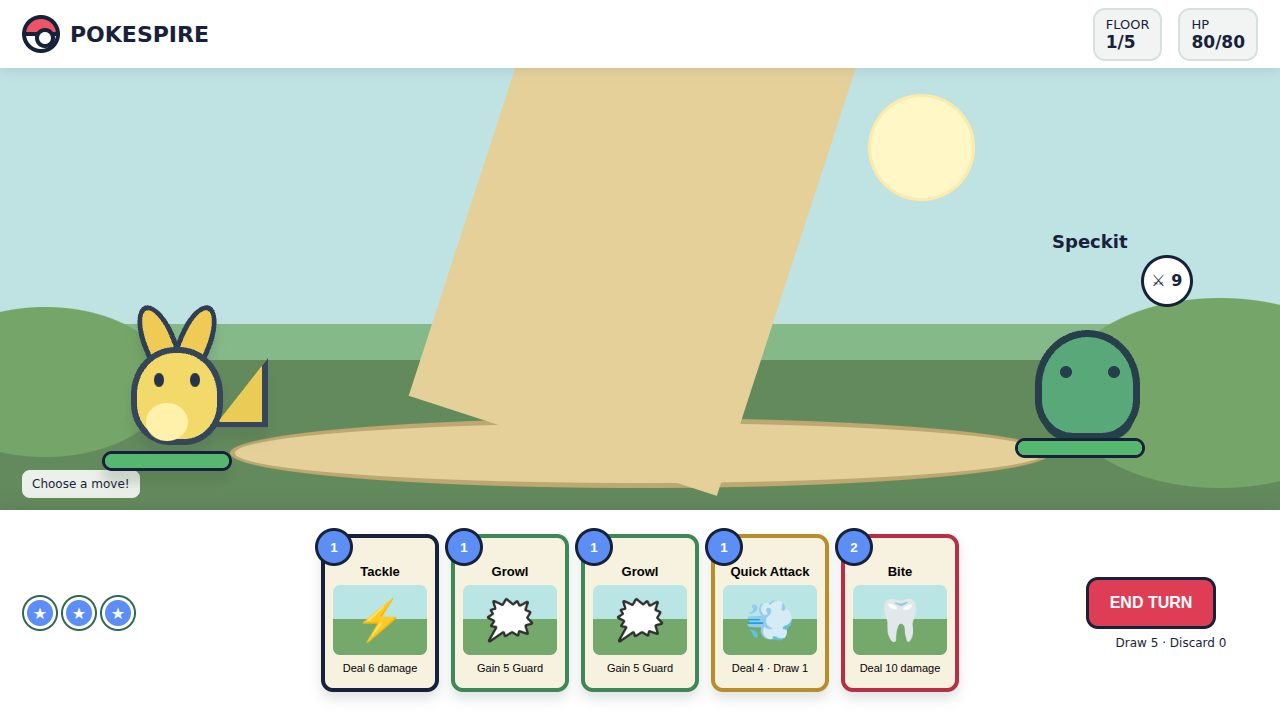
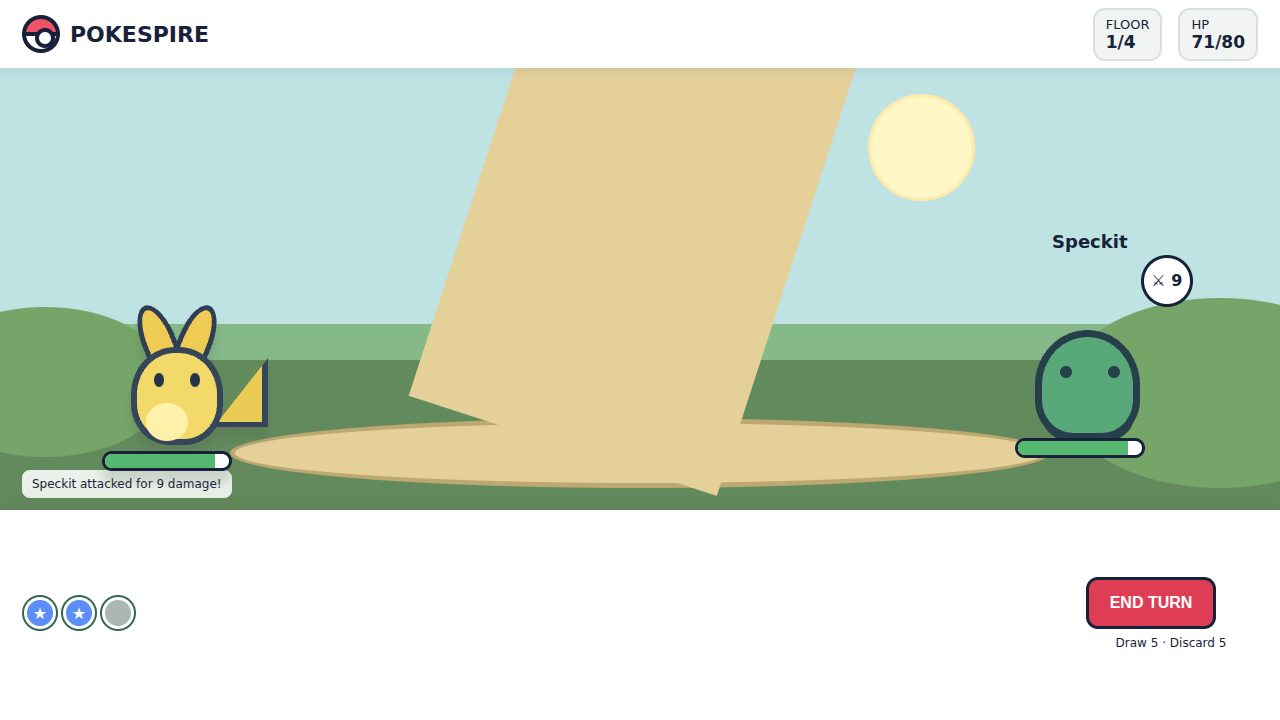
Publish static build for issue #1
Run: 44741429560
Attempt: 1
Generation: 3
Source: f04a97394c0f30c4d3bd9ed31115f5de08431f91

diff --git a/game.js b/game.js
@@ -20,10 +20,10 @@ function bind(){document.queryAll='';document.querySelectorAll('[data-card]').fo
 function toast(t){let el=document.createElement('div');el.className='toast';el.textContent=t;app.append(el);setTimeout(()=>el.remove(),1300)}
 function playCard(i){let c=state.player.hand[i];if(!c)return;if(c.cost>state.player.energy){toast('Not enough energy!');return}state.player.energy-=c.cost;state.player.hand.splice(i,1);state.player.discard.push(c);let e=state.enemy,p=state.player;if(c.kind==='damage'||c.kind==='quick'||c.kind==='bite'){let dmg=c.value;e.hp=Math.max(0,e.hp-dmg);state.log=`Pikachu used ${c.name}! −${dmg} HP`;let h=document.querySelector('.hero');h?.classList.add('attack')}if(c.kind==='block'){p.guard+=c.value;state.log=`Pikachu gained ${c.value} Guard!`}if(c.kind==='heal'){p.hp=Math.min(p.max,p.hp+c.value);state.log=`Pikachu restored ${c.value} HP!`}if(c.kind==='quick')drawCards(1);if(e.hp<=0){render();setTimeout(win,350);return}render()}
 function enemyAttack(){let e=state.enemy,p=state.player;let damage=Math.max(0,e.damage-p.guard);p.guard=Math.max(0,p.guard-e.damage);p.hp=Math.max(0,p.hp-damage);state.log=`${e.name} attacked for ${damage} damage!`;render();if(p.hp<=0)setTimeout(loss,300)}
-function endTurn(){state.player.discard.push(...state.player.hand);state.player.hand=[];enemyAttack();setTimeout(()=>{if(state.player.hp>0){state.player.energy=3;state.player.guard=0;if(state.player.draw.length<5){state.player.draw=shuffle([...state.player.deck]);state.player.discard=[]}drawCards(5)}},350)}
+function endTurn(){state.player.discard.push(...state.player.hand);state.player.hand=[];enemyAttack();setTimeout(()=>{if(state.player.hp>0){state.player.energy=3;if(!state.player.draw.length){state.player.draw=shuffle([...state.player.discard]);state.player.discard=[]}drawCards(5);render()}},350)}
 function win(){if(state.floor>=4){victory();return}state.wild={name:['Oddish','Eevee','Charmander','Squirtle'][state.floor-1],art:['🌱','🦊','🔥','🐢'][state.floor-1],chance:70-state.floor*5};modal(`Wild <b>${state.wild.name}</b> appeared!`,`<div class="choice" id="catch"><div style="font-size:70px">${state.wild.art}</div><h3>Throw Poké Ball</h3><div class="catchrate"><i style="width:${state.wild.chance}%"></i></div><small>${state.wild.chance}% catch chance</small></div><div class="choice" id="leave"><div style="font-size:70px">🏃</div><h3>Keep Moving</h3><small>Continue with your team</small></div>`,'catch')}
 function modal(title,html,kind){let m=document.createElement('div');m.className='modal';m.innerHTML=`<div class="panel"><h1>${title}</h1><div class="choices">${html}</div></div>`;app.append(m);if(kind==='catch'){m.querySelector('#catch').onclick=()=>{m.remove();let caught=Math.random()*100<state.wild.chance;if(caught){let newCard={...cards[state.floor%cards.length],id:'caught'+Date.now(),name:['Giga Drain','Hasty Hound','Blaze Kick','Shell Toss'][state.floor-1]};state.player.deck.push(newCard);toast(`${state.wild.name} joined your deck!`)}else toast(`The wild ${state.wild.name} broke free!`);nextFloor()};m.querySelector('#leave').onclick=()=>{m.remove();nextFloor()}}}
 function nextFloor(){state.floor++;if(state.floor<=4){state.player.max+=5;state.player.hp=Math.min(state.player.max,state.player.hp+15);state.enemy=null;toast('A moment to rest...');setTimeout(()=>nextEnemy(),600)}}
 function loss(){modal('The Trail Ends','<div class="choice" id="retry"><div style="font-size:70px">🔄</div><h3>Try Again</h3></div>','none');document.querySelector('#retry').onclick=()=>{document.querySelector('.modal').remove();start()}}
-function victory(){modal('Champion of the Wilds','<div class="choice" id="retry"><div style="font-size:70px">🏆</div><h3>Play Again</h3></div>','none');document.querySelector('#retry').onclick=()=>{document.querySelector('.modal').remove();start()}}
+function victory(){modal('Champion of the Wilds',`<div class="choice" id="retry"><div style="font-size:70px">🏆</div><h3>Play Again</h3><small>${state.player.deck.length} cards collected</small></div>`,'none');document.querySelector('#retry').onclick=()=>{document.querySelector('.modal').remove();start()} }
 start();
